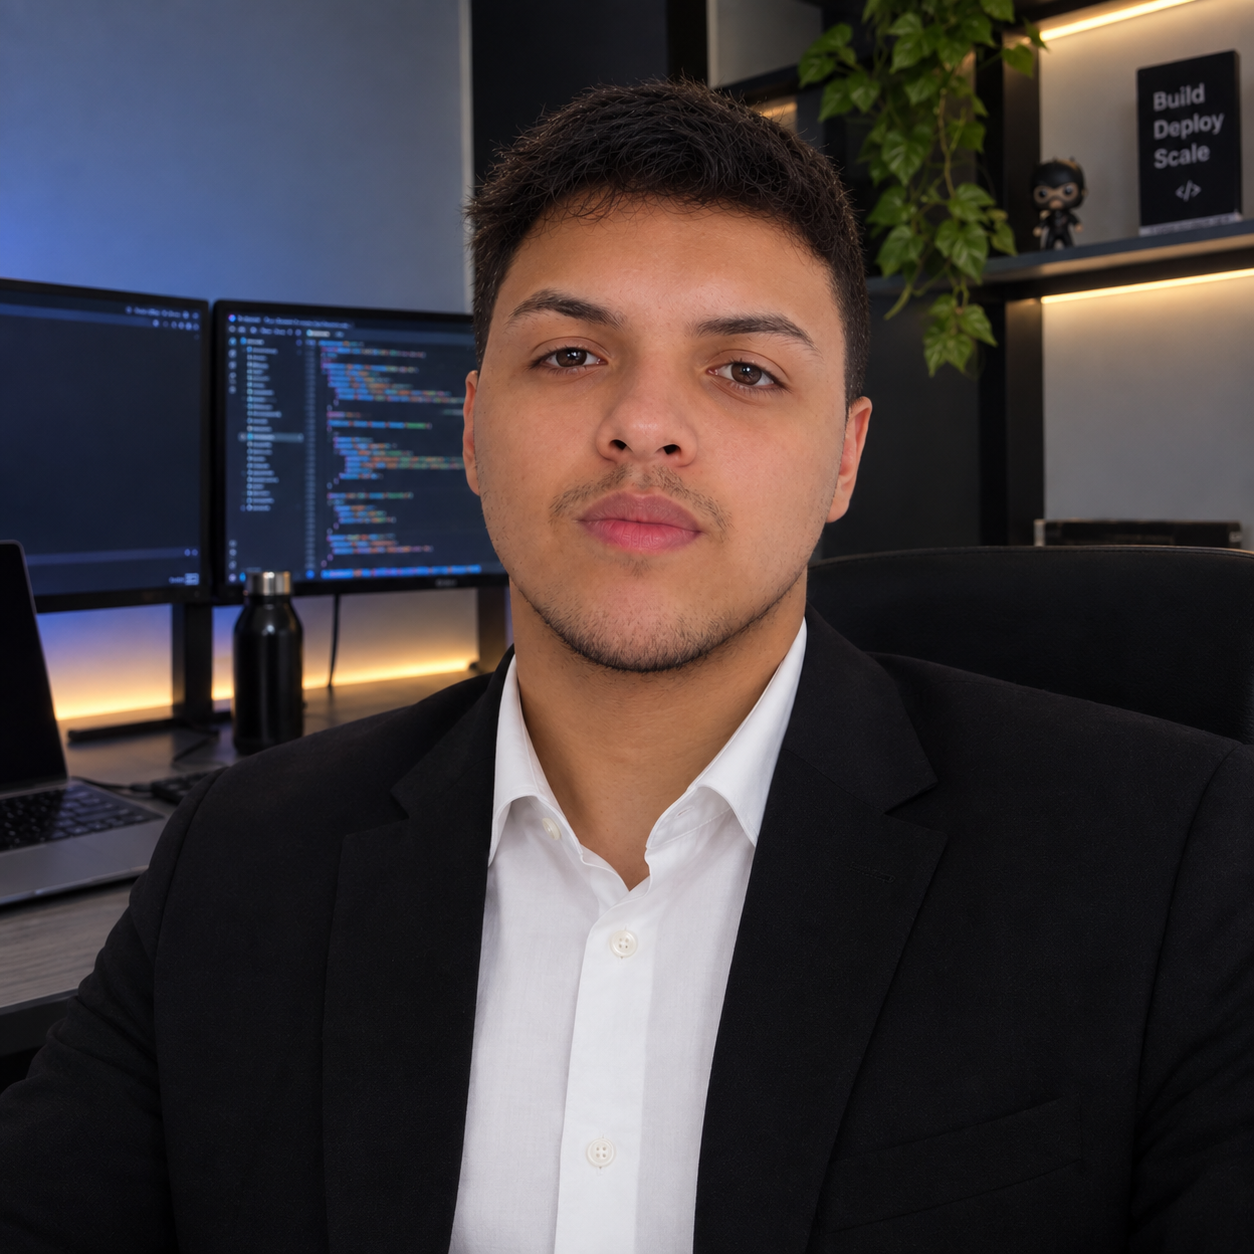
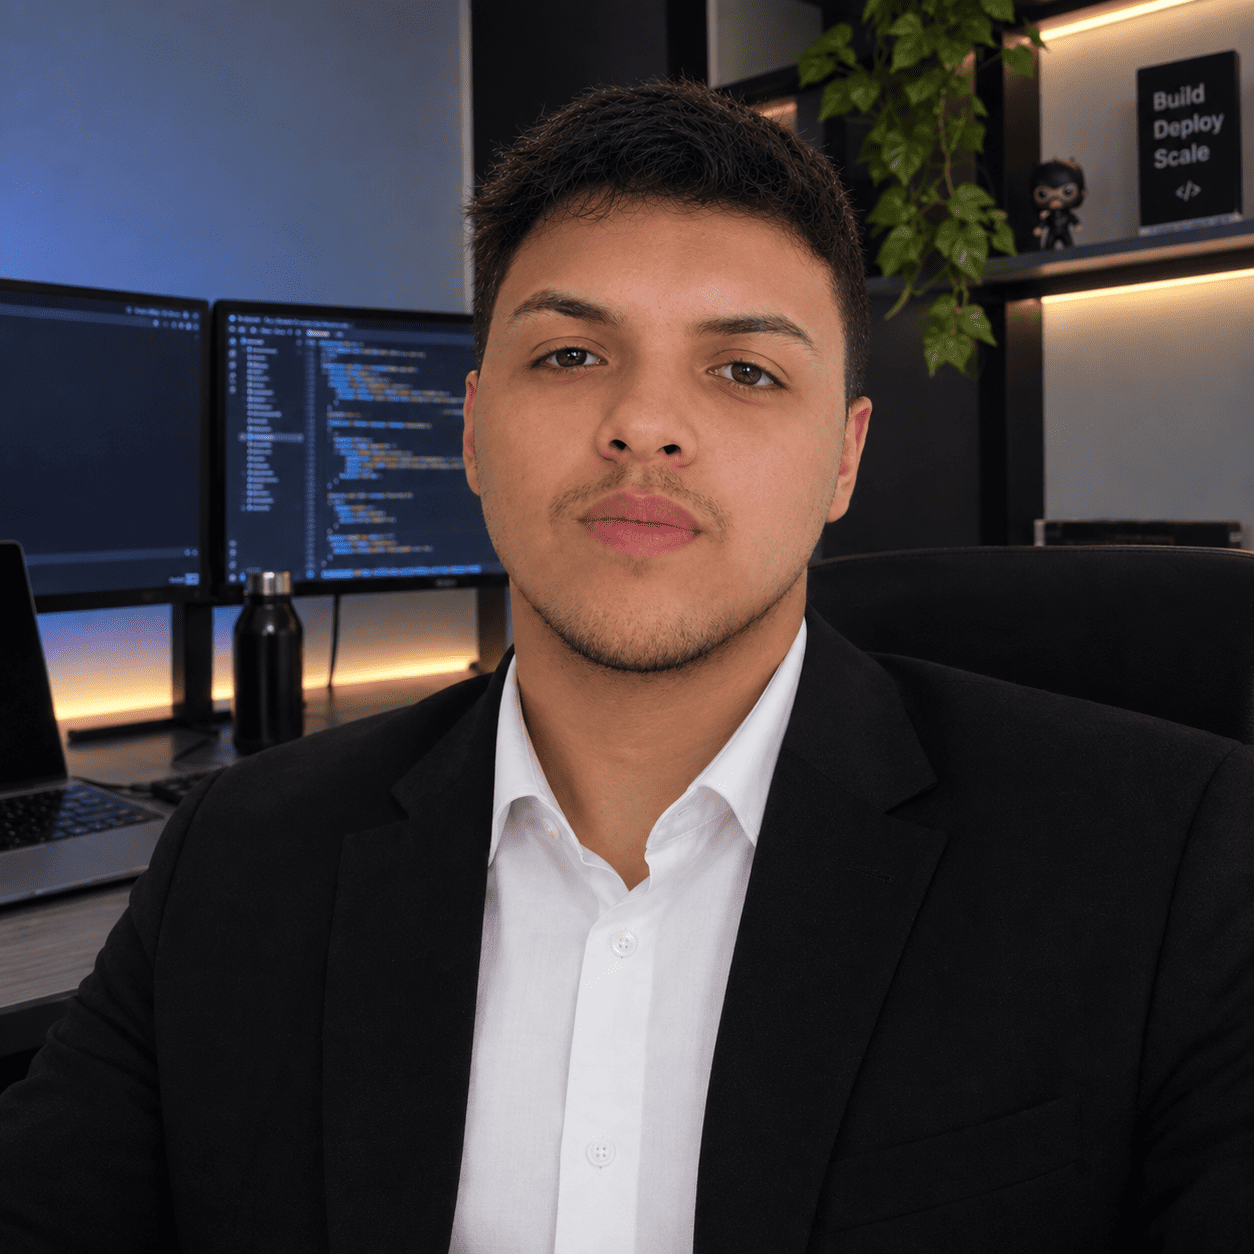
Alterando atividades

diff --git a/index.html b/index.html
@@ -751,6 +751,61 @@
             border-top: 1px solid rgba(255, 255, 255, 0.06);
         }
 
+        .exp-bullets {
+            list-style: none;
+            display: flex;
+            flex-direction: column;
+            gap: 12px;
+            color: var(--text-muted);
+            font-size: 1rem;
+            margin-bottom: 24px;
+            
+            /* Limite de altura com scroll customizado */
+            max-height: 280px;
+            overflow-y: auto;
+            padding-right: 12px;
+        }
+
+        /* Estilização moderna da barra de rolagem (Scrollbar) */
+        .exp-bullets::-webkit-scrollbar {
+            width: 6px;
+        }
+
+        .exp-bullets::-webkit-scrollbar-track {
+            background: rgba(255, 255, 255, 0.03);
+            border-radius: 4px;
+        }
+
+        .exp-bullets::-webkit-scrollbar-thumb {
+            background: rgba(239, 68, 68, 0.3);
+            border-radius: 4px;
+        }
+
+        .exp-bullets::-webkit-scrollbar-thumb:hover {
+            background: var(--primary-red);
+        }
+
+        .tag {
+            display: inline-flex;
+            align-items: center;
+            padding: 5px 12px;
+            background: rgba(239, 68, 68, 0.08);
+            border: 1px solid rgba(239, 68, 68, 0.25);
+            color: var(--primary-red);
+            font-size: 0.78rem;
+            font-weight: 600;
+            border-radius: 20px;
+            font-family: var(--font-code);
+            transition: all 0.3s ease;
+        }
+
+        .tag:hover {
+            background: rgba(239, 68, 68, 0.15);
+            border-color: var(--primary-red);
+            transform: translateY(-2px);
+            box-shadow: 0 0 8px var(--glow-red);
+        }
+
         /* CURSOS E CERTIFICAÇÕES */
         .cert-tabs-container {
             background: var(--card-bg);
@@ -1213,6 +1268,7 @@
     <header>
         <a href="#sobre" class="logo-link">
             <div class="logo">
+                <img src="images/jhonatan/Logotipo.png" alt="Logo Jhonatan Lima" style="width: 50px; height: 50px; object-fit: contain; border-radius: 6px;" onerror="this.style.display='none'">
                 <span class="first-name">Jhonatan</span>
                 <span class="last-name">Lima</span>
             </div>
@@ -1262,7 +1318,7 @@
 
             <div class="hero-photo-wrapper">
                 <div class="hero-photo-frame" id="gravity-photo" title="Clique para derrubar!">
-                    <img src="images/jhonatan/foto.png" alt="Jhonatan Lima Coelho" onerror="this.src='https://via.placeholder.com/450x450/121215/ef4444?text=Jhonatan+Coelho'">
+                    <img src="images/jhonatan/foto.png" alt="Jhonatan Lima Coelho" fetchpriority="high" onerror="this.src='https://via.placeholder.com/450x450/121215/ef4444?text=Jhonatan+Coelho'">
                 </div>
                 <div id="restore-container" class="restore-container">
                     <button class="btn-restore" onclick="restorePhoto()">restaurar Jhonatan.exe</button>
@@ -1283,7 +1339,8 @@
                             <img src="images/faculdades/logotipo/fiap.jpeg" alt="Logotipo FIAP" class="institution-logo-img" onerror="this.src='https://via.placeholder.com/55x55/18181c/ef4444?text=FIAP'">
                             <div class="academic-minimal-info">
                                 <h4>FIAP — Faculdade de Informática e Administração Paulista</h4>
-                                <p>Pós-Graduação (2026 - 2027) • <strong>Data Science - Big Data, AI & Data Engineering</strong></p>
+                                <p>Graduação: Tecnólogo (2026 - 2027)<br>
+                                <strong>Data Science: Big Data, AI & Data Engineering</strong></p>
                             </div>
                         </div>
                         <span class="academic-status status-cursando">Cursando...</span>
@@ -1339,7 +1396,8 @@
                             <img src="images/faculdades/logotipo/unip.jpeg" alt="Logotipo UNIP" class="institution-logo-img" onerror="this.src='https://via.placeholder.com/55x55/18181c/ef4444?text=UNIP'">
                             <div class="academic-minimal-info">
                                 <h4>UNIP — Universidade Paulista</h4>
-                                <p>Tecnólogo (2024 - 2025) • <strong>Análise e Desenvolvimento de Sistemas</strong></p>
+                                <p>Graduação: Tecnólogo (2024 - 2025) <br> 
+                                <strong>Análise e Desenvolvimento de Sistemas</strong></p>
                             </div>
                         </div>
                         <span class="academic-status status-concluido">Concluído</span>
@@ -1399,7 +1457,7 @@
                         <div class="exp-tab-info">
                             <span class="exp-tab-company">Anidrol Indústria Química</span>
                             <span class="exp-tab-role">Auxiliar de TI</span>
-                            <span class="exp-tab-period">2025 - Atual</span>
+                            <span class="exp-tab-period">2026 - Atual</span>
                         </div>
                         <img src="images/empresas/anidrol.png" alt="Anidrol" class="exp-logo-img" onerror="this.src='https://via.placeholder.com/42x42/18181c/ef4444?text=AN'">
                     </button>
@@ -1408,7 +1466,7 @@
                         <div class="exp-tab-info">
                             <span class="exp-tab-company">Anidrol Indústria Química</span>
                             <span class="exp-tab-role">Estagiário de TI</span>
-                            <span class="exp-tab-period">2024 - 2025</span>
+                            <span class="exp-tab-period">2025 - 2026</span>
                         </div>
                         <img src="images/empresas/anidrol.png" alt="Anidrol" class="exp-logo-img" onerror="this.src='https://via.placeholder.com/42x42/18181c/ef4444?text=AN'">
                     </button>
@@ -1417,7 +1475,7 @@
                         <div class="exp-tab-info">
                             <span class="exp-tab-company">YOFC Brasil</span>
                             <span class="exp-tab-role">Estagiário de Logística</span>
-                            <span class="exp-tab-period">2023 - 2024</span>
+                            <span class="exp-tab-period">2024 - 2025</span>
                         </div>
                         <img src="images/empresas/yofc.png" alt="YOFC" class="exp-logo-img" onerror="this.src='https://via.placeholder.com/42x42/18181c/ef4444?text=YO'">
                     </button>
@@ -1426,7 +1484,7 @@
                         <div class="exp-tab-info">
                             <span class="exp-tab-company">YOFC Brasil</span>
                             <span class="exp-tab-role">Aprendiz de Logística</span>
-                            <span class="exp-tab-period">2022 - 2023</span>
+                            <span class="exp-tab-period">2023 - 2024</span>
                         </div>
                         <img src="images/empresas/yofc.png" alt="YOFC" class="exp-logo-img" onerror="this.src='https://via.placeholder.com/42x42/18181c/ef4444?text=YO'">
                     </button>
@@ -1445,16 +1503,36 @@
                             <span class="date-badge">2025 - Atual</span>
                         </div>
                         <ul class="exp-bullets">
-                            <li>Suporte de Nível 1 e 2 para usuários internos na área fabril e administrativa.</li>
-                            <li>Atuação no gerenciamento de redes, manutenção preventiva de equipamentos e rotinas de backup.</li>
-                            <li>Apoio na parametrização e suporte ao ERP corporativo TOTVS Protheus.</li>
+                            <li><b>Manutenção de hardware:</b> diagnóstico e manutenção de computadores e periféricos, substituição de componentes, upgrades e identificação de falhas técnicas.</li>
+                            <li><b>Instalação e configuração de softwares:</b> instalação, atualização e configuração de sistemas operacionais, aplicativos corporativos e ferramentas de trabalho.</li>
+                            <li><b>Suporte técnico:</b> atendimento aos usuários, diagnóstico e resolução de problemas de hardware, software, conectividade e acesso aos sistemas.</li>
+                            <li><b>Infraestrutura de redes:</b> configuração e troubleshooting de redes locais, conectividade, compartilhamentos e recursos de rede.</li>
+                            <li><b>Segurança da Informação:</b> administração de acessos e permissões, controle de contas de usuários, aplicação de boas práticas de segurança e apoio à proteção de dados corporativos.</li>
+                            <li><b>Suporte a sistemas ERP:</b> atendimento e resolução de problemas relacionados aos sistemas AOKI E2Corp e OM3 (Bitsoftware), incluindo suporte aos usuários e acompanhamento de ocorrências.</li>
+                            <li><b>Desenvolvimento e programação:</b> criação e manutenção de aplicações, páginas web, ferramentas internas e soluções para atender às necessidades da empresa.</li>
+                            <li><b>Automação de processos:</b> desenvolvimento de soluções para otimização de rotinas administrativas e operacionais, reduzindo tarefas manuais e melhorando a eficiência dos processos.</li>
+                            <li><b>Administração de ambientes corporativos:</b> suporte a ferramentas, sistemas e recursos tecnológicos utilizados pelos departamentos da empresa.</li>
+                            <li><b>Criação de artes e comunicação visual:</b> desenvolvimento de banners, logotipos, publicações institucionais, assinaturas de e-mail e materiais gráficos para comunicação interna e externa.</li>
+                            <li><b>Gestão de recursos tecnológicos:</b> apoio ao controle de equipamentos, softwares, licenças, acessos e inventário de TI.</li>
+                            <li><b>Documentação técnica:</b> elaboração de procedimentos, registros de atendimento, instruções de uso e documentação de processos de TI.</li>
                         </ul>
                         <div class="exp-tags">
-                            <span class="tag">Suporte N1/N2</span>
-                            <span class="tag">Redes</span>
-                            <span class="tag">TOTVS Protheus</span>
-                            <span class="tag">Backup</span>
+                            <span class="tag">Suporte Técnico</span>
+                            <span class="tag">Infraestrutura</span>
                             <span class="tag">Hardware</span>
+                            <span class="tag">Redes De Computadores</span>
+                            <span class="tag">Programação</span>
+                            <span class="tag">Desenvolvimento Web</span>
+                            <span class="tag">Segurança Da Informação</span>
+                            <span class="tag">Design Gráfico</span>
+                            <span class="tag">Microsoft 365</span>
+                            <span class="tag">Adapta</span>
+                            <span class="tag">Aoki E2Corp</span>
+                            <span class="tag">Bitrix24</span>
+                            <span class="tag">Canva</span>
+                            <span class="tag">GoTo</span>
+                            <span class="tag">Linkus</span>
+                            <span class="tag">OM3</span>
                         </div>
                     </div>
 
@@ -1470,14 +1548,36 @@
                             <span class="date-badge">2024 - 2025</span>
                         </div>
                         <ul class="exp-bullets">
-                            <li>Diagnóstico e resolução de chamados de hardware, sistemas operacionais e periféricos.</li>
-                            <li>Organização do inventário de ativos de TI e configuração de novos computadores no domínio.</li>
+                            <li><b>Manutenção de hardware:</b> diagnóstico e manutenção de computadores e periféricos, substituição de componentes, upgrades e identificação de falhas técnicas.</li>
+                            <li><b>Instalação e configuração de softwares:</b> instalação, atualização e configuração de sistemas operacionais, aplicativos corporativos e ferramentas de trabalho.</li>
+                            <li><b>Suporte técnico:</b> atendimento aos usuários, diagnóstico e resolução de problemas de hardware, software, conectividade e acesso aos sistemas.</li>
+                            <li><b>Infraestrutura de redes:</b> configuração e troubleshooting de redes locais, conectividade, compartilhamentos e recursos de rede.</li>
+                            <li><b>Segurança da Informação:</b> administração de acessos e permissões, controle de contas de usuários, aplicação de boas práticas de segurança e apoio à proteção de dados corporativos.</li>
+                            <li><b>Suporte a sistemas ERP:</b> atendimento e resolução de problemas relacionados aos sistemas AOKI E2Corp e OM3 (Bitsoftware), incluindo suporte aos usuários e acompanhamento de ocorrências.</li>
+                            <li><b>Desenvolvimento e programação:</b> criação e manutenção de aplicações, páginas web, ferramentas internas e soluções para atender às necessidades da empresa.</li>
+                            <li><b>Automação de processos:</b> desenvolvimento de soluções para otimização de rotinas administrativas e operacionais, reduzindo tarefas manuais e melhorando a eficiência dos processos.</li>
+                            <li><b>Administração de ambientes corporativos:</b> suporte a ferramentas, sistemas e recursos tecnológicos utilizados pelos departamentos da empresa.</li>
+                            <li><b>Criação de artes e comunicação visual:</b> desenvolvimento de banners, logotipos, publicações institucionais, assinaturas de e-mail e materiais gráficos para comunicação interna e externa.</li>
+                            <li><b>Gestão de recursos tecnológicos:</b> apoio ao controle de equipamentos, softwares, licenças, acessos e inventário de TI.</li>
+                            <li><b>Documentação técnica:</b> elaboração de procedimentos, registros de atendimento, instruções de uso e documentação de processos de TI.</li>
                         </ul>
                         <div class="exp-tags">
-                            <span class="tag">Help Desk</span>
+                            <span class="tag">Suporte Técnico</span>
                             <span class="tag">Infraestrutura</span>
-                            <span class="tag">Windows</span>
-                            <span class="tag">Inventário de Ativos</span>
+                            <span class="tag">Hardware</span>
+                            <span class="tag">Redes De Computadores</span>
+                            <span class="tag">Programação</span>
+                            <span class="tag">Desenvolvimento Web</span>
+                            <span class="tag">Segurança Da Informação</span>
+                            <span class="tag">Design Gráfico</span>
+                            <span class="tag">Microsoft 365</span>
+                            <span class="tag">Adapta</span>
+                            <span class="tag">Aoki E2Corp</span>
+                            <span class="tag">Bitrix24</span>
+                            <span class="tag">Canva</span>
+                            <span class="tag">GoTo</span>
+                            <span class="tag">Linkus</span>
+                            <span class="tag">OM3</span>
                         </div>
                     </div>
 
@@ -1493,14 +1593,21 @@
                             <span class="date-badge">2023 - 2024</span>
                         </div>
                         <ul class="exp-bullets">
-                            <li>Acompanhamento de estoque, auditoria de dados de entrada/saída e suporte operacional via ERP.</li>
-                            <li>Criação de relatórios e planilhas automatizadas no Excel para controle da operação.</li>
+                            <li>Realização de cotações de frete e análise de valores e condições de transporte.</li>
+                            <li>Emissão de notas fiscais, romaneios e minutas de transporte.</li>
+                            <li>Organização, digitalização e arquivamento de documentos fiscais, administrativos e de transporte.</li>
+                            <li>Elaboração e acompanhamento de solicitações de pagamento e despesas relacionadas à logística.</li>
+                            <li>Utilização do sistema TOTVS ERP para apoio às rotinas operacionais e administrativas da área.</li>
+                            <li>Elaboração e atualização de planilhas de controle logístico, utilizando Excel avançado, fórmulas e macros VBA.</li>
+                            <li>Automação de processos e tarefas administrativas, visando otimizar rotinas, reduzir atividades manuais e aumentar a eficiência operacional.</li>
                         </ul>
                         <div class="exp-tags">
-                            <span class="tag">Excel Avançado</span>
-                            <span class="tag">ERP</span>
-                            <span class="tag">Controle de Estoque</span>
-                            <span class="tag">Auditoria de Dados</span>
+                            <span class="tag">Word</span>
+                            <span class="tag">Excel</span>
+                            <span class="tag">PowerPoint</span>
+                            <span class="tag">Outlook</span>
+                            <span class="tag">Teams</span>
+                            <span class="tag">Totvs Protheus</span>
                         </div>
                     </div>
 
@@ -1516,12 +1623,21 @@
                             <span class="date-badge">2022 - 2023</span>
                         </div>
                         <ul class="exp-bullets">
-                            <li>Suporte administrativo, conferência de documentações e lançamento de registros no sistema.</li>
+                            <li>Realização de cotações de frete e análise de valores e condições de transporte.</li>
+                            <li>Emissão de notas fiscais, romaneios e minutas de transporte.</li>
+                            <li>Organização, digitalização e arquivamento de documentos fiscais, administrativos e de transporte.</li>
+                            <li>Elaboração e acompanhamento de solicitações de pagamento e despesas relacionadas à logística.</li>
+                            <li>Utilização do sistema TOTVS ERP para apoio às rotinas operacionais e administrativas da área.</li>
+                            <li>Elaboração e atualização de planilhas de controle logístico, utilizando Excel avançado, fórmulas e macros VBA.</li>
+                            <li>Automação de processos e tarefas administrativas, visando otimizar rotinas, reduzir atividades manuais e aumentar a eficiência operacional.</li>
                         </ul>
                         <div class="exp-tags">
-                            <span class="tag">Suporte Administrativo</span>
-                            <span class="tag">Lançamento de Dados</span>
-                            <span class="tag">Conferência</span>
+                            <span class="tag">Word</span>
+                            <span class="tag">Excel</span>
+                            <span class="tag">PowerPoint</span>
+                            <span class="tag">Outlook</span>
+                            <span class="tag">Teams</span>
+                            <span class="tag">Totvs Protheus</span>
                         </div>
                     </div>
                 </div>
@@ -1829,25 +1945,21 @@
                 <a href="mailto:Jhonatanlimacoelho25@gmail.com" class="contact-card">
                     <i class="fa-solid fa-envelope"></i>
                     <h4>E-mail</h4>
-                    <p>Jhonatanlimacoelho25@gmail.com</p>
                 </a>
 
                 <a href="https://www.linkedin.com/in/jhonatanlima25/" target="_blank" class="contact-card">
                     <i class="fa-brands fa-linkedin"></i>
                     <h4>LinkedIn</h4>
-                    <p>in/jhonatanlima25</p>
                 </a>
 
                 <a href="https://github.com/Jheex" target="_blank" class="contact-card">
                     <i class="fa-brands fa-github"></i>
                     <h4>GitHub</h4>
-                    <p>@Jheex</p>
                 </a>
 
                 <a href="https://wa.me/5511981382542" target="_blank" class="contact-card">
                     <i class="fa-brands fa-whatsapp"></i>
                     <h4>WhatsApp</h4>
-                    <p>(11) 98138-2542</p>
                 </a>
             </div>
         </section>
